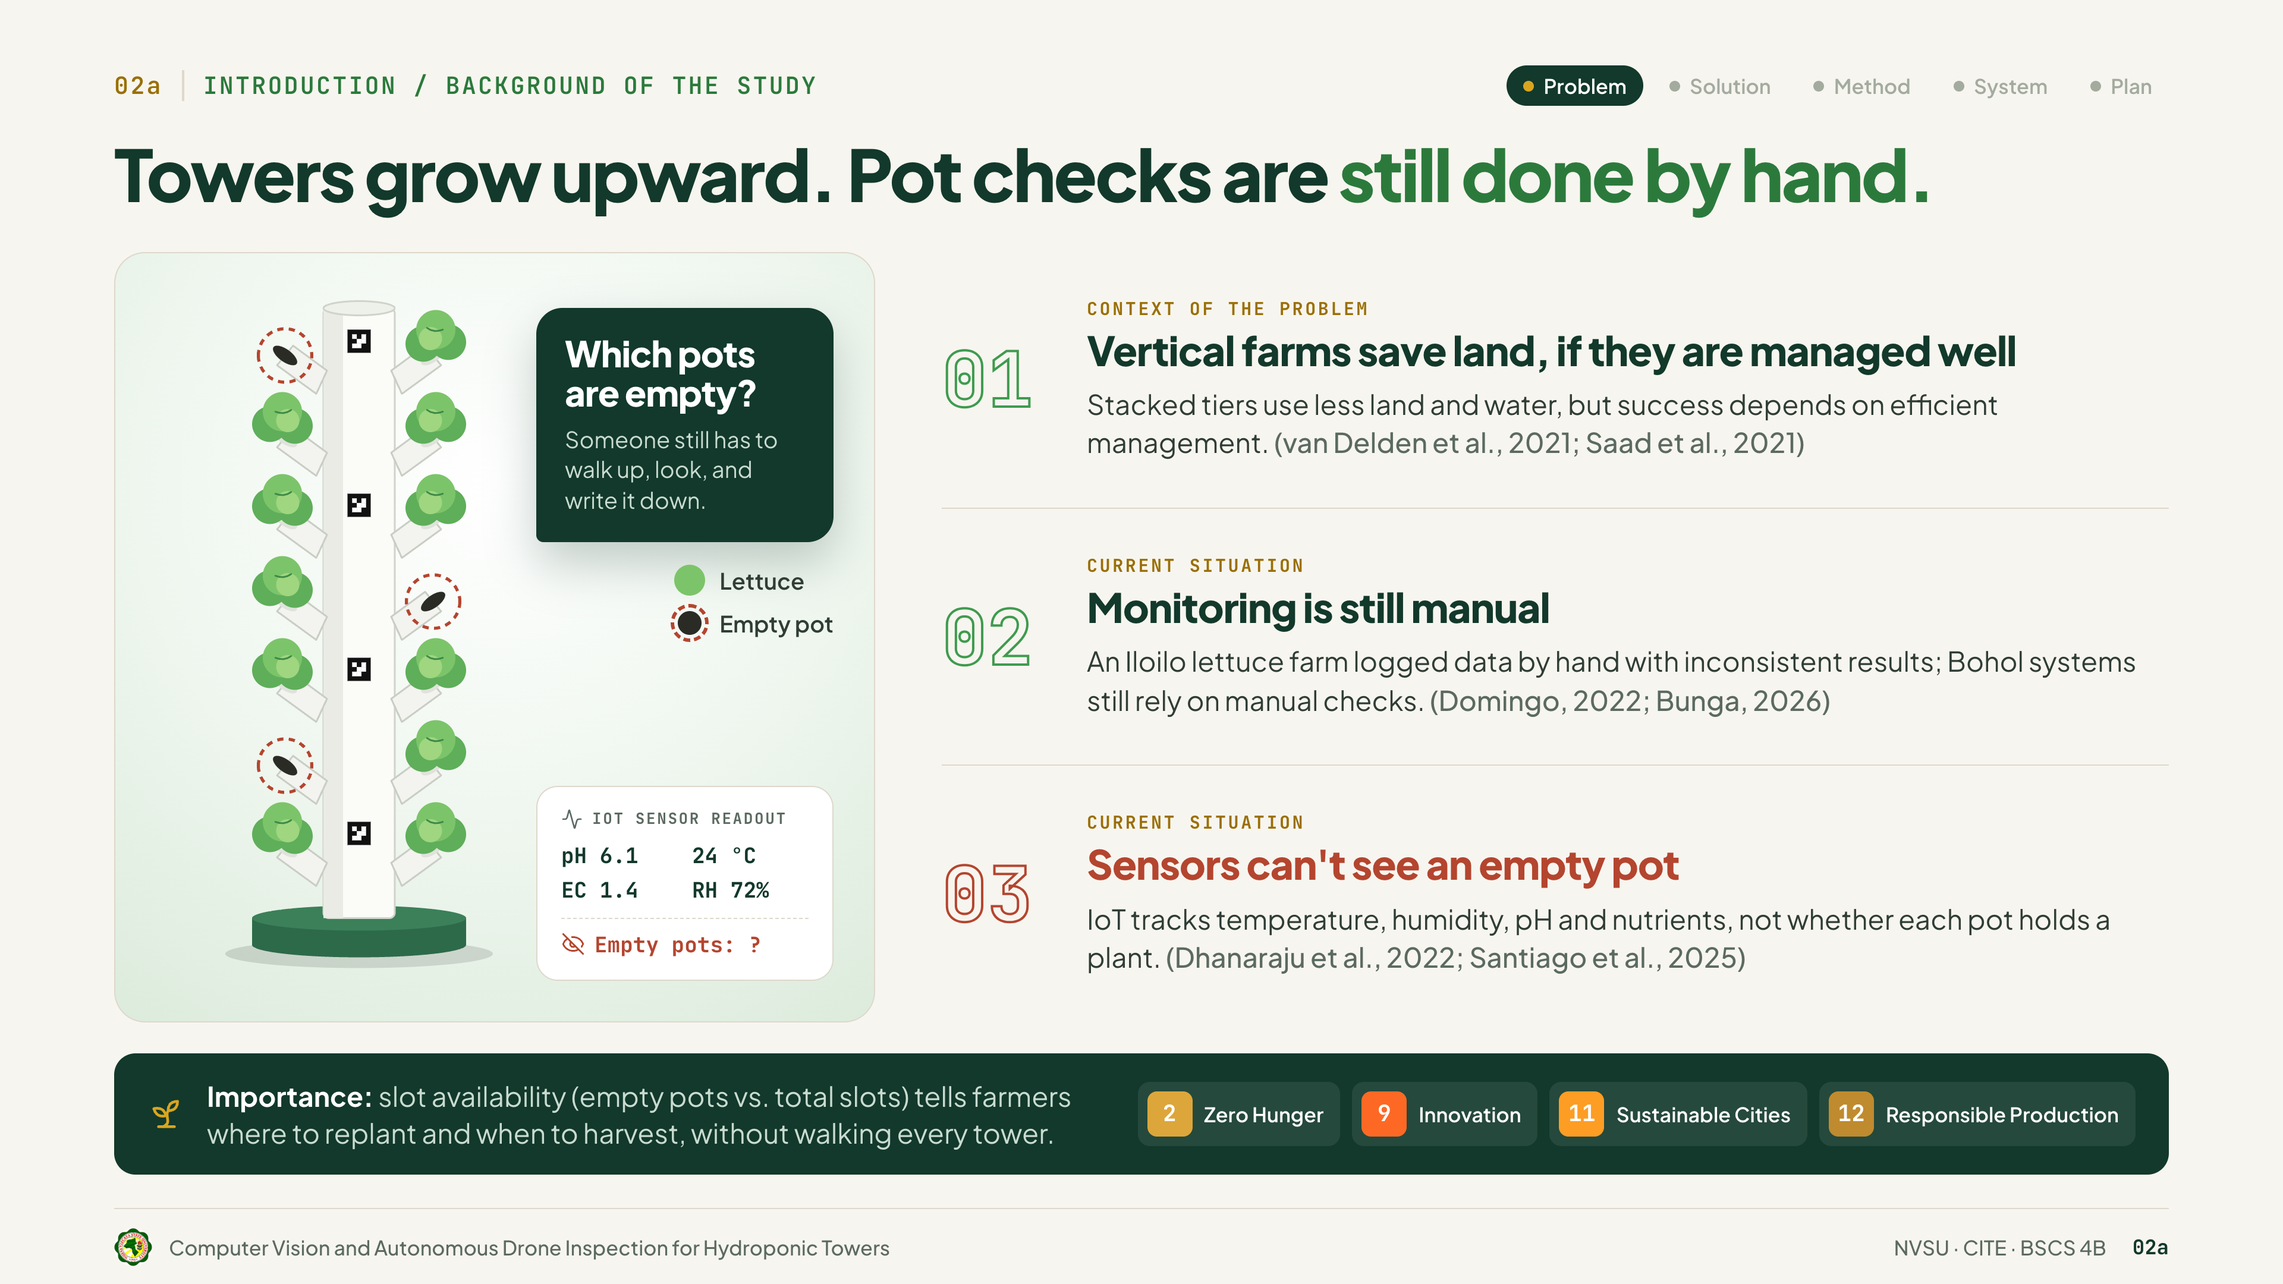
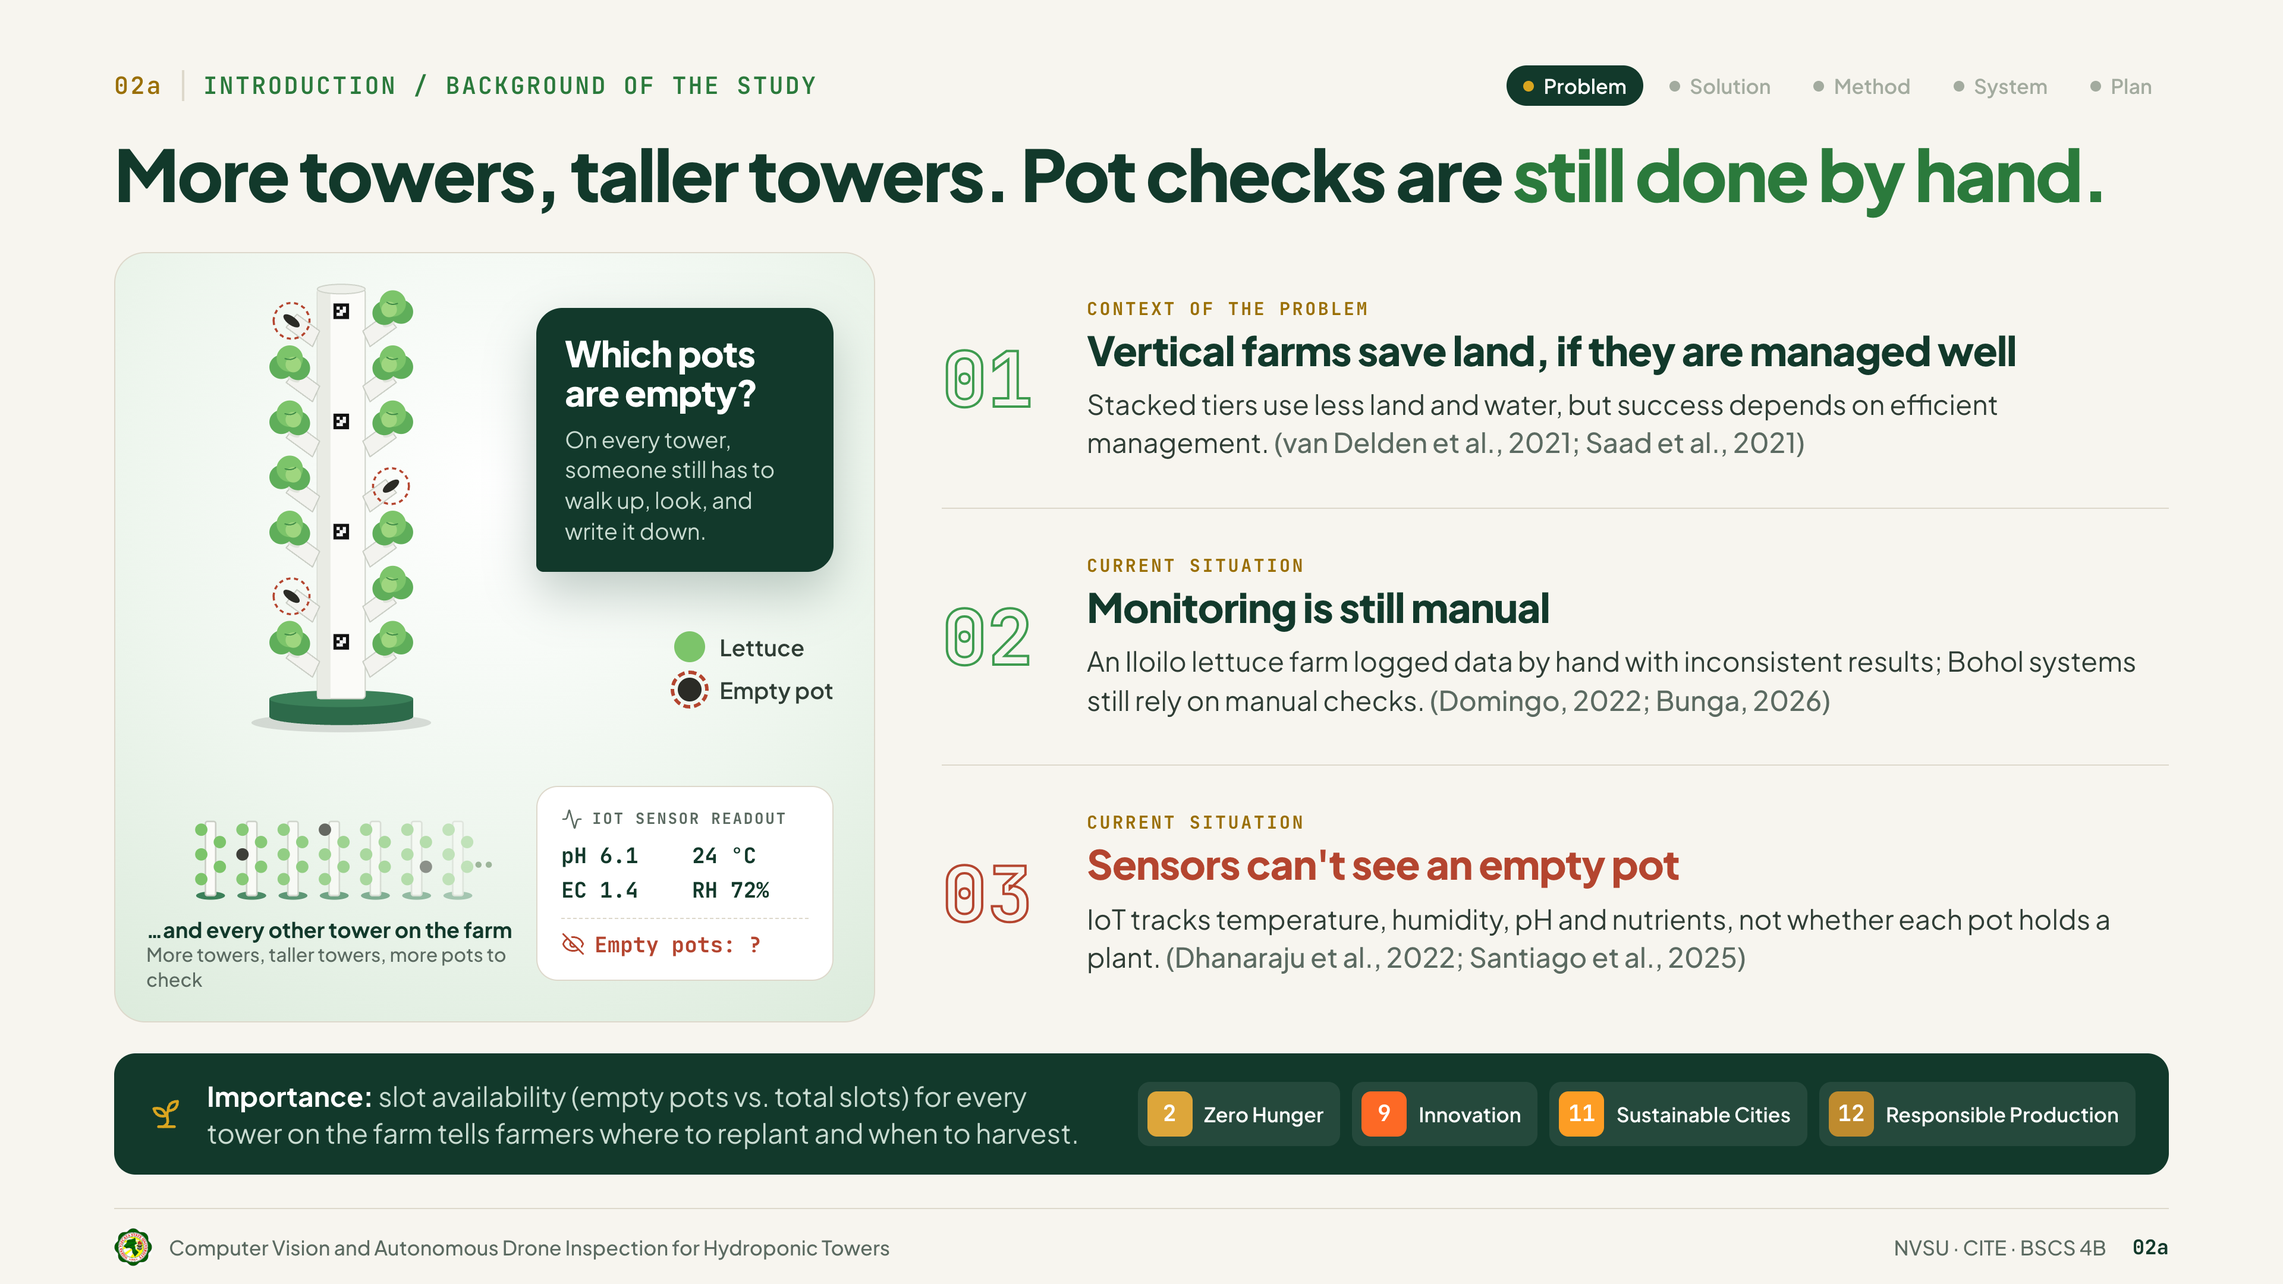
docs: update defense scripts and slide 2a with whole-farm inspection details and timing

diff --git a/PROPOSAL v2/slide-builder/src/slide-02a.html b/PROPOSAL v2/slide-builder/src/slide-02a.html
@@ -16,7 +16,11 @@
     border: 1.5px solid var(--line);
     overflow: hidden;
   }
-  .stage .tower-art { position: absolute; left: 40px; top: 14px; width: 330px; height: 600px; }
+  .stage .tower-art { position: absolute; left: 50px; top: 10px; width: 280px; height: 400px; }
+  .farm { position: absolute; left: 26px; bottom: 24px; width: 330px; }
+  .farm svg { width: 100%; height: 78px; display: block; }
+  .farm p { margin-top: 8px; font-size: 18px; font-weight: 700; color: var(--forest); line-height: 1.3; }
+  .farm p span { display: block; font-size: 16px; font-weight: 500; color: var(--muted); }
   .stage .tower-art svg { width: 100%; height: 100%; }
 
   .bubble {
@@ -33,7 +37,7 @@
   .bubble b { display: block; font-size: 30px; font-weight: 800; line-height: 1.1; letter-spacing: -0.02em; }
   .bubble span { display: block; margin-top: 10px; font-size: 19px; line-height: 1.35; color: var(--on-dark-2); }
 
-  .legend-mini { position: absolute; right: 34px; top: 262px; display: grid; gap: 10px; font-size: 19px; font-weight: 600; color: var(--body); }
+  .legend-mini { position: absolute; right: 34px; top: 318px; display: grid; gap: 10px; font-size: 19px; font-weight: 600; color: var(--body); }
   .legend-mini div { display: flex; align-items: center; gap: 12px; }
   .legend-mini i { width: 26px; height: 26px; border-radius: 50%; flex: none; }
   .legend-mini .l i { background: #7cc46a; }
@@ -93,12 +97,13 @@
 </head>
 <body data-num="02a" data-part="problem" data-eyebrow="Introduction / Background of the Study">
 <div class="slide">
-  <h1 class="title">Towers grow upward. Pot checks are <em>still done by hand.</em></h1>
+  <h1 class="title">More towers, taller towers. Pot checks are <em>still done by hand.</em></h1>
 
   <div class="content">
     <section class="stage">
       <div class="tower-art" data-pattern="LL EL LL LE LL LL EL" data-highlight="empty"></div>
-      <div class="bubble"><b>Which pots are empty?</b><span>Someone still has to walk up, look, and write it down.</span></div>
+      <div class="bubble"><b>Which pots are empty?</b><span>On every tower, someone still has to walk up, look, and write it down.</span></div>
+      <div class="farm"><svg viewBox="0 0 300 90" fill="none"><g opacity="1.0"><ellipse cx="22" cy="80" rx="14" ry="4" fill="#3b8059"/><rect x="17" y="8" width="10" height="72" rx="2" fill="#fbfbf8" stroke="#c9cdc4" stroke-width="1.5"/><circle cx="13" cy="16" r="6" fill="#7cc46a"/><circle cx="31" cy="28" r="6" fill="#7cc46a"/><circle cx="13" cy="40" r="6" fill="#7cc46a"/><circle cx="31" cy="52" r="6" fill="#7cc46a"/><circle cx="13" cy="64" r="6" fill="#7cc46a"/></g><g opacity="0.9"><ellipse cx="62" cy="80" rx="14" ry="4" fill="#3b8059"/><rect x="57" y="8" width="10" height="72" rx="2" fill="#fbfbf8" stroke="#c9cdc4" stroke-width="1.5"/><circle cx="53" cy="16" r="6" fill="#7cc46a"/><circle cx="71" cy="28" r="6" fill="#7cc46a"/><circle cx="53" cy="40" r="6" fill="#2b2b26"/><circle cx="71" cy="52" r="6" fill="#7cc46a"/><circle cx="53" cy="64" r="6" fill="#7cc46a"/></g><g opacity="0.8"><ellipse cx="102" cy="80" rx="14" ry="4" fill="#3b8059"/><rect x="97" y="8" width="10" height="72" rx="2" fill="#fbfbf8" stroke="#c9cdc4" stroke-width="1.5"/><circle cx="93" cy="16" r="6" fill="#7cc46a"/><circle cx="111" cy="28" r="6" fill="#7cc46a"/><circle cx="93" cy="40" r="6" fill="#7cc46a"/><circle cx="111" cy="52" r="6" fill="#7cc46a"/><circle cx="93" cy="64" r="6" fill="#7cc46a"/></g><g opacity="0.7"><ellipse cx="142" cy="80" rx="14" ry="4" fill="#3b8059"/><rect x="137" y="8" width="10" height="72" rx="2" fill="#fbfbf8" stroke="#c9cdc4" stroke-width="1.5"/><circle cx="133" cy="16" r="6" fill="#2b2b26"/><circle cx="151" cy="28" r="6" fill="#7cc46a"/><circle cx="133" cy="40" r="6" fill="#7cc46a"/><circle cx="151" cy="52" r="6" fill="#7cc46a"/><circle cx="133" cy="64" r="6" fill="#7cc46a"/></g><g opacity="0.6"><ellipse cx="182" cy="80" rx="14" ry="4" fill="#3b8059"/><rect x="177" y="8" width="10" height="72" rx="2" fill="#fbfbf8" stroke="#c9cdc4" stroke-width="1.5"/><circle cx="173" cy="16" r="6" fill="#7cc46a"/><circle cx="191" cy="28" r="6" fill="#7cc46a"/><circle cx="173" cy="40" r="6" fill="#7cc46a"/><circle cx="191" cy="52" r="6" fill="#7cc46a"/><circle cx="173" cy="64" r="6" fill="#7cc46a"/></g><g opacity="0.5"><ellipse cx="222" cy="80" rx="14" ry="4" fill="#3b8059"/><rect x="217" y="8" width="10" height="72" rx="2" fill="#fbfbf8" stroke="#c9cdc4" stroke-width="1.5"/><circle cx="213" cy="16" r="6" fill="#7cc46a"/><circle cx="231" cy="28" r="6" fill="#7cc46a"/><circle cx="213" cy="40" r="6" fill="#7cc46a"/><circle cx="231" cy="52" r="6" fill="#2b2b26"/><circle cx="213" cy="64" r="6" fill="#7cc46a"/></g><g opacity="0.4"><ellipse cx="262" cy="80" rx="14" ry="4" fill="#3b8059"/><rect x="257" y="8" width="10" height="72" rx="2" fill="#fbfbf8" stroke="#c9cdc4" stroke-width="1.5"/><circle cx="253" cy="16" r="6" fill="#7cc46a"/><circle cx="271" cy="28" r="6" fill="#7cc46a"/><circle cx="253" cy="40" r="6" fill="#7cc46a"/><circle cx="271" cy="52" r="6" fill="#7cc46a"/><circle cx="253" cy="64" r="6" fill="#7cc46a"/></g><g fill="#9db59a"><circle cx="292" cy="50" r="3"/><circle cx="282" cy="50" r="3"/></g></svg><p>…and every other tower on the farm<span>More towers, taller towers, more pots to check</span></p></div>
       <div class="legend-mini">
         <div class="l"><i></i>Lettuce</div>
         <div class="e"><i></i>Empty pot</div>
@@ -139,7 +144,7 @@
     <div class="strip">
       <div class="why">
         <span class="ico"><i data-lucide="sprout"></i></span>
-        <div><b>Importance:</b> <span>slot availability (empty pots vs. total slots) tells farmers where to replant and when to harvest, without walking every tower.</span></div>
+        <div><b>Importance:</b> <span>slot availability (empty pots vs. total slots) for every tower on the farm tells farmers where to replant and when to harvest.</span></div>
       </div>
       <div class="sdgs">
         <div class="sdg"><i style="background:#dda63a">2</i>Zero Hunger</div>

diff --git a/PROPOSAL v2/DEFENSE-SCRIPT.md b/PROPOSAL v2/DEFENSE-SCRIPT.md
@@ -13,14 +13,14 @@ Source: **Chapter 1 v2.docx**, which now includes the Review of Related Literatu
 
 ## Timing and speakers
 
-Target: **about 18½ minutes**, then open forum. Presenter assignment carries over from v1; rebalance it so each member presents what they built or wrote.
+Target: **about 19 minutes**, then open forum. Presenter assignment carries over from v1; rebalance it so each member presents what they built or wrote.
 
 | Template | Slide | Speaker | Time |
 | ----- | ----- | ----- | ----- |
 | 1 | slide-01 · Title | Lester Dann G. Lopez | 0:35 |
 | | slide-02-0 · Section: The Problem | Lopez | 0:02 |
-| 2 | slide-02a · Introduction / Background of the Study | Lopez | 1:05 |
-| 2 | slide-02b · Introduction · Key Concepts (Figure 5) | Lopez | 0:55 |
+| 2 | slide-02a · Introduction / Background of the Study | Lopez | 1:15 |
+| 2 | slide-02b · Introduction · Key Concepts (Figure 5) | Lopez | 1:00 |
 | 3 | slide-03a · RRL · Farm and Monitoring | Rhoan Joy M. Marvilla | 0:55 |
 | 3 | slide-03b · RRL · Detection and Flight | Marvilla | 0:55 |
 | 3 | slide-03c · RRL · Processing, Data and Method | Marvilla | 0:40 |
@@ -48,7 +48,7 @@ Target: **about 18½ minutes**, then open forum. Presenter assignment carries ov
 | 15 | slide-15 · Expected Output | Lopez | 0:35 |
 | 16 | slide-16 · Budget Requirements | Lopez | 0:30 |
 | 17 | slide-17 · Thank You / Open Forum | All | 0:10 |
-| | | **Total** | **≈ 18:45** |
+| | | **Total** | **≈ 19:00** |
 
 Backup slides A–C (SWOT, safety and regulation, hardware) come after slide-17. Show them only when asked.
 
@@ -69,7 +69,7 @@ Today we present **"Computer Vision and Autonomous Drone Inspection for Hydropon
 ---
 
 ## slide-02a · Introduction / Background of the Study
-**Speaker:** Lopez · **Time:** 1:05
+**Speaker:** Lopez · **Time:** 1:15
 
 First, the context. Vertical farms stack crops in tiers. Van Delden and colleagues found that this saves land and water, but only if the farm is managed well.
 
@@ -77,7 +77,9 @@ The current situation: managing it is still done by hand. A lettuce farm in Iloi
 
 Most farm technology today is IoT: sensors for temperature, humidity, pH and nutrients. Look at the readout on the left. It knows the pH. It does not know **which pots are empty**. Someone still has to walk up, look, and write it down.
 
-That is why this study matters: **slot availability**, empty pots against total slots, tells farmers where to replant and when to harvest. ✂ This work supports SDGs 2, 9, 11 and 12.
+And it is never just one tower. **A farm has many towers**, and stackable towers grow taller module by module, so checking every pot by hand takes longer as the farm grows.
+
+That is why this study matters: **slot availability**, empty pots against total slots, for every tower on the farm, tells farmers where to replant and when to harvest. ✂ This work supports SDGs 2, 9, 11 and 12.
 
 **`<next>`** → slide-02b · Key Concepts
 
@@ -87,13 +89,13 @@ That is why this study matters: **slot availability**, empty pots against total 
 ---
 
 ## slide-02b · Introduction · Key Concepts
-**Speaker:** Lopez · **Time:** 0:55
+**Speaker:** Lopez · **Time:** 1:00
 
 So our system does the looking. Four key concepts, in four steps; the numbers on the right match Figure 5.
 
 **One, QR registration:** the farmer scans a printed QR sign on the tower, and the phone saves its own GPS as the tower's location. **Two, GPS and ArUco markers:** the drone flies there by GPS, then the Raspberry Pi finds the markers and holds its distance, height and face. **Three, YOLOv8 computer vision:** the drone scans every face, bottom to top, while a ground laptop shows a live preview; the final count comes from the full recording after landing. **Four, an offline-first dashboard:** results are saved offline, and the farmer uploads them when there is internet.
 
-The tower needs only a printed sign, not electronics, and one drone can serve every tower on the farm.
+And this is built for **the whole farm, not one tower**. Each tower is registered with its own QR code and location, so the same drone inspects every tower, one after another. Adding a tower costs only a printed sign, no electronics.
 
 **`<next>`** → slide-03a · Related Literature: Farm and Monitoring
 
@@ -195,7 +197,7 @@ Each card shows the evidence we will collect and the RAD phase. ✂ Objective fi
 ## slide-06 · Significance of the Study
 **Speaker:** Valentino · **Time:** 0:45
 
-The benefits spread from the tower outward. **Farmers** spend less time checking pots, especially the upper levels. **Managers and workers** get a per-tower history with fewer counting errors. **Students and researchers** get a reference and a labeled dataset. The **academic community** gains work on smart farming and computer vision. And **local agricultural offices** get guidance on affordable vertical farming.
+At the center is the idea of the whole study: **one drone for every tower on the farm**. The benefits spread outward from there. **Farmers** spend less time checking pots, especially the upper levels. **Managers and workers** get a per-tower history with fewer counting errors. **Students and researchers** get a reference and a labeled dataset. The **academic community** gains work on smart farming and computer vision. And **local agricultural offices** get guidance on affordable vertical farming.
 
 Our **technical contribution**: we extend marker alignment from landing pads to the vertical faces of a tower, and map every detection to its exact pot.
 
@@ -206,7 +208,7 @@ Our **technical contribution**: we extend marker alignment from landing pads to 
 ## slide-07 · Scope and Delimitation
 **Speaker:** Valentino · **Time:** 0:55
 
-Our **scope**, on the right: QR registration, GPS approach with onboard alignment, YOLOv8 detection matched to each pot, the offline cache and dashboards, all on **one 1.5-meter tower**.
+Our **scope**, on the right: QR registration, GPS approach with onboard alignment, YOLOv8 detection matched to each pot, the offline cache and dashboards. We build and test **one 1.5-meter tower** to fit the budget, but the system is designed for the whole farm: every registered tower is scanned the same way.
 
 Our **delimitations**. On the left are the limits we fly within: the drone stays **no higher than 1.8 meters** and **within 20 meters** of launch; one tower per battery, three to five minutes; daylight and fair weather, with wind checked on an anemometer; an open area with GPS; local Wi-Fi only. And we exclude watering systems, other crops, plant health, obstacle avoidance, indoor flight, LiDAR, and commercial deployment.
 

diff --git a/PROPOSAL v2/THESIS-PROPOSAL-DEFENSE.md b/PROPOSAL v2/THESIS-PROPOSAL-DEFENSE.md
@@ -7,13 +7,13 @@ Source: *Chapter 1 v2.docx* (Introduction, Review of Related Literature, Objecti
 
 ## Presentation Flow
 
-Target length: **about 18½ minutes** of presentation, then open forum. Slides keep the template numbers 1–17; where one template slide needs more room, it is split into lettered slides (2a, 2b, 3a–3d …), as in v1. A section slide opens each of the five parts.
+Target length: **about 19 minutes** of presentation, then open forum. Slides keep the template numbers 1–17; where one template slide needs more room, it is split into lettered slides (2a, 2b, 3a–3d …), as in v1. A section slide opens each of the five parts.
 
 | # | Slide | Part | Time | Presenter | Key message (one sentence) |
 | ----- | ----- | ----- | ----- | ----- | ----- |
 | 1 | Title | Opening | 0:35 | Lopez | Who we are and what we propose. |
-| 2a | Introduction / Background of the Study | **Problem** | 1:05 | Lopez | Towers grow upward, but pot checks are still manual and sensors can't see empty pots. |
-| 2b | Introduction · Key Concepts | **Problem** | 0:55 | Lopez | QR registration, GPS + ArUco alignment, YOLOv8, offline-first dashboard. |
+| 2a | Introduction / Background of the Study | **Problem** | 1:15 | Lopez | More towers, taller towers, but pot checks are still manual and sensors can't see empty pots. |
+| 2b | Introduction · Key Concepts | **Problem** | 1:00 | Lopez | QR registration, GPS + ArUco alignment, YOLOv8, offline-first dashboard; one drone for the whole farm. |
 | 3a–3c | Review of Related Literature and Studies | **Problem** | 2:30 | Marvilla | 38 sources: what we adopt, what they leave out. |
 | 3d | Research Gap | **Problem** | 0:40 | Marvilla | Each piece exists; no study combines them. |
 | 4a | Conceptual Framework · IPO Model | **Solution** | 0:45 | Marvilla | Inputs → RAD process → working inspection system, with feedback. |
@@ -61,10 +61,11 @@ Target length: **about 18½ minutes** of presentation, then open forum. Slides k
 
 * **Context of the problem:** Vertical farms use less land and water, but success depends on efficient management (van Delden et al., 2021; Saad et al., 2021).
 * **Current situation:** Monitoring is still manual (Domingo, 2022; Bunga, 2026). IoT tracks temperature, humidity, pH and nutrients, not whether each pot holds a plant (Dhanaraju et al., 2022; Santiago et al., 2025).
-* **Importance of the study:** Slot availability (empty pots vs. total slots) tells farmers where to replant and when to harvest, without walking every tower.
+* **Scale:** a farm has many towers, and stackable towers grow taller module by module, so checking by hand takes longer as the farm grows (Significance of the Study).
+* **Importance of the study:** Slot availability (empty pots vs. total slots) for every tower on the farm tells farmers where to replant and when to harvest.
 * **SDGs:** 2, 9, 11, 12.
 
-*Visual:* drawn tower with empty pots ringed in red, next to an IoT readout showing "Empty pots: ?".
+*Visual:* drawn tower with empty pots ringed in red, a row of towers behind it ("…and every other tower on the farm"), and an IoT readout showing "Empty pots: ?".
 
 **Slide 2b: Introduction · Key Concepts**
 
@@ -72,6 +73,7 @@ Target length: **about 18½ minutes** of presentation, then open forum. Slides k
 * **GPS + ArUco markers:** GPS brings the drone near; the Raspberry Pi aligns on the markers.
 * **YOLOv8 computer vision:** every face, bottom to top; live preview on the laptop; final count from the onboard recording.
 * **Offline-first dashboard:** saved offline first, uploaded when there is internet.
+* **Whole farm, not one tower:** each tower has its own QR code and location, so one drone inspects every tower in turn; adding a tower costs only a printed sign.
 
 *Visual:* Figure 5 (Conceptual Illustration). Each step points to its callout numbers.
 
